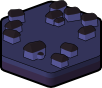
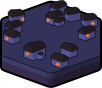
Fix: AP not being charged New: Hills don't provide sight buff at night New: build-night-tiles skips images that exist New: some custom-drawn night tiles

diff --git a/server_root/js/player.js b/server_root/js/player.js
@@ -13,7 +13,7 @@ var Player = {
 
 		var panel = get_side_panel('player');
 		
-		var html = '<h3><img src="/icons/icon-' + player.alignment.toLowerCase() + '.png" class="alignicon" /> ' + player.name + "</h3>";
+		var html = '<h3 class="' + player.alignment.toLowerCase() + '"><img src="/icons/icon-' + player.alignment.toLowerCase() + '.png" class="alignicon" /> ' + player.name + "</h3>";
 
 		html += "<p><span>" + player.ap + " AP</span>";
 		html += "<span>" + player.hp + ' <img src="/img/hp.png" alt="HP"></span></p>';

diff --git a/server_root/css/game.css b/server_root/css/game.css
@@ -60,7 +60,6 @@ body#sunset {
 	margin: 0 3px 5px;
 	font-weight: normal;
 	font-size: 20px;
-	color: #444;
 }
 
 #scrollpane {

diff --git a/wor/locations/countryside.py b/wor/locations/countryside.py
@@ -8,8 +8,8 @@ class Plain(Location):
 class Hills(Location):
 	move_ap = 6
 	def power(self, name):
-		"""Players can see further from higher up"""
-		if name == 'sight':
+		"""Players can see further from higher up - during the day"""
+		if name == 'sight' and self.region.get_time_of_day() != 'night':
 			return 1
 		return 0
 

diff --git a/wor/actors/player.py b/wor/actors/player.py
@@ -60,7 +60,7 @@ class Player(Actor):
 		return self.ap_counter.value
 
 	def __ap_setter(self, value):
-		self.ap_counter.value = value
+		self.ap_counter.set_value(value)
 
 	ap = property(__ap_getter, __ap_setter)
 
